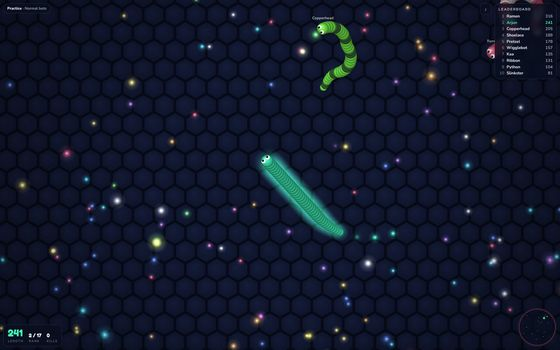
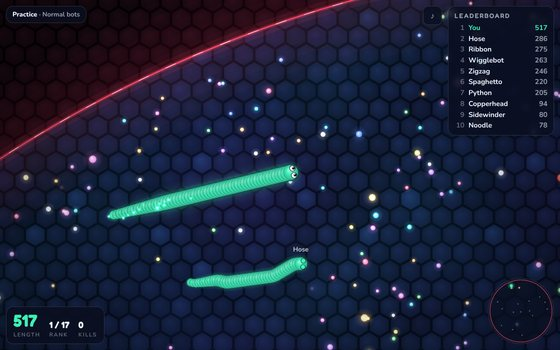
Coil: phone-sideways HUD fix, new card pictures, README
The leaderboard no longer runs into the minimap and Boost button on a
phone held sideways (top five plus your row, as upright). Retaken
preview.jpg and phone thumbnail; README section describes the new drawing.

Claude-Session: https://claude.ai/code/session_01DfCR7RPoK1UNAvb7iRuPWn

diff --git a/e63334287a3deaa3/coil/index.html b/e63334287a3deaa3/coil/index.html
@@ -142,9 +142,14 @@ details.how[open] summary::before{content:'– '}
   #mute{right:182px}
   #mini{width:96px;height:96px}
   #boostBtn{right:118px;width:76px;height:76px}
-  #stats{padding:8px 11px;gap:12px}
+  #stats{padding:8px 10px;gap:10px}
   #stats .big{font-size:26px}
   #tag{max-width:calc(100% - 240px)}
+  #hint{display:none}
+}
+/* a phone held sideways: the full leaderboard ran down into the minimap and Boost button, and the hint lay over the stats */
+@media (max-height:480px){
+  #lb li:nth-child(n+6):not(.me):not(.gap){display:none}
   #hint{display:none}
 }
 

diff --git a/README.md b/README.md
@@ -16,7 +16,7 @@ Personal site hosted with GitHub Pages at **https://ascoding11.github.io**, the 
 - `e63334287a3deaa3/index.html` and `e63334287a3deaa3/games.css`: the Back Room page. Under the header, the What's new strip, the Party and Online panels, the games come in one `<section aria-label="Games">` (leaderboard.js puts the Leaderboards right after it, and the home page's `reveal()` copies this first `<section>` into the home page, so everything the games need is inside it). The page reads, top to bottom: What's new, Playing now, Party, Online, then the games (playingnow.js puts its panel right above the Party panel). At the top of the games is **the row of game types** (`<nav class="gs-nav">`): six equal buttons in one row, one per section, each in its section's colour; a click scrolls to that section (layout.js does the scrolling from the button's `data-go`, so the address never gets a `#`, which the home page would read as a room code on reload). Then six sections, **most played type first, and inside each the most played game first** (hours across all players from the Leaderboards data, counted on 13 Nov 2026: Cars 294 h, Shooters 159 h, Parkour 68 h, Party games 66 h, Puzzles 61 h, Arcade 15 h; re-count now and then from the admin page's play-time list and move sections, buttons and cards to match): **Cars** (Slipstream, Boostball, Rampline, Rumble Karts), **Shooters** (Shell Crackers, Backrooms 1v1–4v4, Driftfall), **Parkour** (Updraft, Tumble Trials, Turbo Trail, Spire, Asteroid Run, Escapade), **Party games** (Chromaflage, Odd One Out, Showdown, Puffer Party), **Puzzles** (24 small tiles: Deepword, Trivium, the 21 daily puzzles and Boxed; then Stackfall, Melon Merge, 2048, Gridpop) and **Arcade** (Coil, Lokop, Tidewick, Patchwork Tower). Each game is in exactly one section. **Puzzle tiles** (`.pz-wrap` > `.pz-grid` > `<article class="pz">`, one full-width item at the top of Puzzles' `.gc-grid`): each links straight to the puzzle and says what it is in plain words first ("Guess the 5-letter word") with its name under that ("Hunch"), because the names alone don't tell new players what the games are; the picture is the puzzle's phone thumbnail (`m/thumbs/<folder>.jpg`). A new daily puzzle gets a tile here (and one on the phone page) as well as its `DAILY_GAMES` entry. Deepword and Trivium are tiles too, not cards (their links carry the `data-invite` their Play buttons had, so invite links still open them), and so is Boxed, the one tile that leaves the Back Room (`/boxed/`, a public game). There is no big Daily Puzzles card any more: the line above the tiles (`.pz-h`) has today's progress (`#dailyToday`) and a link to the Daily Puzzles page (`daily/`), which still has every puzzle and the streak. Tiles aren't game cards, so Edit layout's sizes leave them alone. Each section is a `<section class="gs gs-<name>">` (`gs-cars`, `gs-shooters`, `gs-parkour`, `gs-partygames`, `gs-puzzles`, `gs-arcade`; not `gs-party`, because layout.js names a section's block after its class and `party` is the Party panel) whose heading has an icon, a one-line subtitle and a count (`.gs-n`), and its own colour (`--gs-c`, set per section in `games.css`). Each game is a launcher card, `<article class="project gc">`: the screenshot (`<a class="shot">` with `preview.jpg` and a genre badge, `.gc-genre`), the name in an `<h3>`, one short line (`.gc-blurb`, about 55 characters so it fits two lines), two or three chips (`.gc-chips`: the first, `class="on"`, says how it's played online, such as "Online · up to 12"; only true things, such as Bots or Solo too), a `<details class="gc-more">` whose "i" button shows the longer description and feature list over the card, and the Play button (`.actions .btn.primary`, with `data-invite="<prefix>"` for online games, which the home page's invite links look for). Some cards have `class="project gc wide"` (two columns wide, picture on the left) so every section's rows come out even with four across, and the wide ones are each section's most played: Shooters has one wide (Shell Crackers) and two regular, Parkour two wide (Updraft, Tumble Trials) and four regular (two rows), and Cars, Party games, Puzzles (under its tiles) and Arcade four regular each; if a section's count changes, add or remove `wide` so its rows still come out even. On phones (560 px and narrower) only cards that also have `pw` (Shell Crackers) take a whole row; the others pair up two by two. A small script at the end of the Back Room page fills the `#dailyToday` span above the puzzle tiles with today's progress (how many daily puzzles are done and the streak, read from the `daily:<slug>` records, `daily-hub:days` and `deepword:days`), and it stays hidden in the home page's copy, which doesn't run that script. The styles are in `games.css`, linked from inside the Games section rather than the `<head>`, so the home page's `reveal()` brings them along; they only build on `site.css`'s colours and fonts and are scoped to `.br-games`, so the other pages that use `site.css` don't change. Four cards across on computers, three on small laptops, two on tablets and phones. To add a game, copy a card into the right section, update the section's game count (`.gs-n`) and the intro's game count, and give it its chips. A brand-new game can wear a small orange "New" pill inside its genre badge and a "New · …" chip (inline styles on Driftfall's card); take them off once it's no longer new. A new daily puzzle doesn't get a card: it goes in `DAILY_GAMES` on the Daily Puzzles page and gets a small tile (above). The home page's game layer (and the phone page's frame) let the Daily Puzzles page open its games inside the same layer, and close it when a page links back to the Back Room itself. Under the games, a "Want more games, or have an idea?" note has a Tell Arjun button (`data-feedback-open`, which feedback.js handles).
 - `e63334287a3deaa3/trivium/`: Trivium (Back Room), a trivia game: a Daily ten, Quick play by category, Survival, a 60-second Blitz, and live contests (Firebase, same project and Firestore rules as Hype Cycle Exchange and Boxed; contests are stored in `games` with `kind: "trivia"`; the host's screen grades answers and writes scores, players only write their own answers; invite links go through the home page as `#tv-<code>`). The question bank is in `e63334287a3deaa3/trivium/bank/`, one file per category; each row is `[difficulty 1–3, question, right answer, three wrong answers, fact]`. Questions get a stable ID from a hash of their text, so editing a question's wording makes it a new question. To add a category, add a file and a `<script>` tag for it in its `index.html` (and a color in `CAT_COLOR`). Keep every question and fact in your own words, and avoid facts that go out of date (current office-holders, records likely to be broken). **Turkey Week** (`../events.js`, November 15 to 26, 2026): `bank/thanksgiving.js` adds a seasonal Thanksgiving category (33 questions, id `tgv`) only while the event is running. It is kept out of the usual daily draw (`DAILY_IDS`), so no other day's Daily ten changes; on Thanksgiving Day (`TG_DAY`, 2026-11-26) all ten daily questions come from it. There is no off switch here, since it is a category you choose, not a look.
 - `e63334287a3deaa3/boostball/`: Boostball (Back Room), rocket-car soccer like Rocket League, 1v1 to 3v3 with bots (Three.js, Firebase Realtime Database rooms under `rooms/bb-…`, public lobbies `bb-pub-1…6`, same project and rules as Rumble Karts; invite links `#bb-<code>`). Car and ball physics follow Rocket League's numbers (from RocketSim) scaled by `UU`; braking and coasting are `BRAKE_ACC` / `COAST_ACC`. Cars have their own, heavier gravity, `CAR_GRAV` (1.25 × the ball's `GRAV`, which the ball keeps, so ball flight and bounces are unchanged), so they hang in the air less and come down with some weight; the jump's kick and hold are raised by `JUMP_K` (1.1), so a full jump still reaches about 95% of its old height but lands about 13% sooner, and boosting straight up still out-pulls car gravity (net 6.25 against 9.5 u/s² before; jump plus boost reaches crossbar height in 1.21 s instead of 1.14 s). Every car use of gravity goes through `CAR_GRAV`: the air, the pull along walls and ramps, the sticky-force test, and the guess at other players' cars between updates (`updateRemotes`). A car's own recoil from the ball is worked out as if it were a quarter heavier (`CAR_HEFT`; what the ball gets, so every shot, is unchanged), soft car bumps push a little less (`BUMP_SOFT`), the car that was hit is pushed harder than the one that did the hitting (`BUMP_HIT` 1.2 and `BUMP_RAM` 0.8 times the usual push, by how much of the closing speed was the other car's; a head-on bump is the plain push for both), every bump is worked out from the speeds the cars had before any bump that step (`c.bv`, set in `physStep`), so you and a bot on the same computer each get your share whichever is handled first, and a car landing on its body on the floor bounces off at `BODY_BOUNCE.floor` (.08, was .25) so it no longer skips. Landings show a drawn-only suspension squash (`SQ_*`, other players' cars too), a thud that grows with the landing speed, and for your own hard landings a small camera dip (scaled by Camera shake, off under reduced motion). Older cached pages still play with newer ones: each page runs its own car, and the gravity difference only changes the guess at a remote car between updates (55 ms apart), by centimetres. A ball resting on the roof can be carried (soft car–ball contacts have friction and a gentler extra push: `CB_*` and `PUSH*` constants; hard hits are unchanged). The match lives in `rooms/bb-<code>/round` (score, clock, last goal; `tc` is the team colour pair, which the host sets), players in `players/<uid>`, touches and pads in short-lived `events`. A goal plays a fireball in the scoring team's colour on every client (one Points cloud, fewer puffs on touch screens). Settings → Team colours picks blue/orange, green/purple, red/teal, yellow/violet or pink/cyan (each pair checked under simulated colour blindness); online everyone sees the host's pick. Settings and garage are saved only in the browser under `boostball-` keys (`teams`, `marker`, `gfx`, `name`, `body`, `accent`, …). **Look:** the three car bodies are sculpted from cross-sections in `BODY_SHAPES` (rows of `[z, half width, bottom y, top y]` for the lower body, the glass cabin and the roof), which `loft()` eases into smooth solids, with a wing, lights, grille and lathe-turned tyres added; all three still fill the one hitbox, so a new body is only a new row there (shared wheel geometry is in `SHARED_G`, which the dispose code skips). The stadium is swept around a rounded rectangle outside the arena by `ring()` in `buildArena`: two tiers of drawn crowd, LED boards with made-up sponsor names, and a roof with a strip of lights under its edge. On Pretty graphics (`glossOn()`: not on Fast, and not on touch screens) the paint is a clear-coated `MeshPhysicalMaterial`, trim, glass and the ball are `MeshStandardMaterial`s, and all reflect `stadiumEnv()`, a 128 px cube map drawn in code; the sun moves nearly overhead and casts real shadows of the cars and ball onto the pitch (one 2048 × 3072 shadow map over the whole field, only cars and the ball drawn into it; the old blob shadows fade to a faint contact shadow); and soft glows (`glowSprite`) sit on the floodlights, head and tail lights and the boost. Pretty also adds bloom and a colour grade (`bloom`, drawn by `drawScene()` after the scene): the finished frame is copied to a texture, its brightest parts are shrunk to a quarter size and blurred, and a last pass redraws the frame with that glow added, slightly more colour and contrast and darker corners, so floodlights, goal frames, boost and the goal fireball glow; the pitch switches to a per-pixel-lit material with a grass-grain normal map (`fineFloor()`), and faint beams fall from the floodlights; the scene is still drawn once straight to the screen, the HTML HUD never glows, and if the copy ever fails the bloom turns itself off for the visit. On every setting the pitch texture has mowing bands and a pool of floodlight fading to the corners, and the sky has stars (a fixed `Points` cloud). Pretty protects the frame rate by itself: `fxWatch()` (called from `drawScene()`) steps `fxTier` down when frames stay over 24 ms for 3 s after `autores.js` has already lowered the resolution to 0.7 or less, from 2 (everything) to 1 (no bloom or grade) to 0 (also no real shadows or fine grass; paint, reflections and glows stay). It never steps back up during a visit, and picking Pretty again in Settings starts from 2. `lookSync()` switches all of that when the setting changes, and `glossOn()` is part of each car's `meshKey` and the garage's key, so changing Graphics rebuilds the cars. On Fast and on phones the same bodies are drawn with the flat Lambert materials, blob shadows and no glows. Nothing about the look is sent to other players. Bots: practice offers Rookie, Pro and All-Star (`DIFF`); online, the host's browser runs Pro bots in the empty seats. Bots drive with the same controls and car as players (`botThink` only sets the car's inputs) and see the ball a reaction time late (`react`); the levels differ only in the numbers in `DIFF` (reaction, aim, steering, boost and pad use, flips, aerials, keeping). They line up behind the ball, shoot toward the post away from a defender, pick up boost pads on the way back when short, go round a ball rather than through it when on the wrong side, clear straight up the field from in front of their own net, and get themselves unstuck from corners and the back of a goal. Before a change to the bots, play old against new headlessly through `window.__bb` over a couple of hundred matches per level: single results swing a lot. Each match the bots get random names from `BOT_NAMES` (no two alike, never a human player's name in the room; the host gives a bot a new name if someone joins with its name). Online the host sends each bot's name as its position in `BOT_NAMES` (in its `bh` row), so add new names at the end and don't reorder or remove any. The game loop runs from animation frames; when they stall (the tab is hidden) a 250 ms timer keeps `step` ticking in 100 ms slices without drawing, so a hidden host's bots, ball and node keep going (browsers run that timer about once a second in a hidden tab, so others then get its updates once a second) instead of freezing until the room picks a new host. In automated browsers only (`navigator.webdriver`), `window.__bb` exposes the game for tests. Other players' cars (`updateRemotes`) are carried on from their last update along the curve they were turning on (`tw`, the turn rate worked out from successive updates), for up to 0.4 s when an update is late; the drawn car moves at its own speed and closes the gap to that estimate no faster than `CORR_V`, so a late update makes it glide rather than jump. A host running no bots sends no `bh`, and everyone then drops the bots it ran before. **Turkey Week** (`../events.js`, November 15 to 26, 2026): the ball is drawn as a pumpkin (`drawPumpkin` paints the ball texture, plus a stem on the ball mesh) and the pitch in autumn grass colours (`drawField`). `applyTurkey` redraws both textures when the menu's Turkey Week button is pressed. The ball's physics and the room data are unchanged.
-- `e63334287a3deaa3/coil/`: Coil (Back Room), a snake arena (one canvas, Firebase Realtime Database rooms under `rooms/cl-…`, public arenas `cl-pub-1…6`, same project and rules as Rumble Karts; invite links `#cl-<code>`). Rooms hold 10 people and the host (whoever has been in the room longest) runs bots to fill the arena to 12, sending them in its own node (`bh` positions, `bs` skins, names and bodies). Each browser judges only its own snakes' deaths. The game loop runs from animation frames; when they stall (the tab is hidden) a 250 ms timer steps the world in 50 ms slices so a hidden host's bots keep moving for everyone (its own snake stays put, as before; browsers run the timer about once a second in a hidden tab, so the bots then reach others once a second, smoothed by netsmooth.js). **Turkey Week** (`../events.js`, November 15 to 26, 2026): food is drawn as corn kernels and cranberries (`tkFood`, two small sprites) and every snake wears a pilgrim hat seen from above (`tkHat`). Where the food is, its value and everything sent to the room are unchanged; the Turkey Week button on the menu switches it off.
+- `e63334287a3deaa3/coil/`: Coil (Back Room), a snake arena (one canvas, Firebase Realtime Database rooms under `rooms/cl-…`, public arenas `cl-pub-1…6`, same project and rules as Rumble Karts; invite links `#cl-<code>`). Rooms hold 10 people and the host (whoever has been in the room longest) runs bots to fill the arena to 12, sending them in its own node (`bh` positions, `bs` skins, names and bodies). Each browser judges only its own snakes' deaths. The game loop runs from animation frames; when they stall (the tab is hidden) a 250 ms timer steps the world in 50 ms slices so a hidden host's bots keep moving for everyone (its own snake stays put, as before; browsers run the timer about once a second in a hidden tab, so the bots then reach others once a second, smoothed by netsmooth.js). **Look** (drawing only; nothing here changes play or what is sent to the room): everything is drawn from small sprites made once per colour, with no `shadowBlur` in the frame. A snake (`paintBody`, also used by the menu's skin preview) is `under()` beneath every other segment (a soft shadow, a faint halo in the snake's colour and a dark outline disc), one `ball()` per segment (flat colour with a thin shaded rim: only the tail-side sliver of each one shows, so the rims read as scales), a line of `sheen` dots up and to the left of the spine, then `head()`; `paintFace` draws the eyes with a dark rim, and they blink; the tongue flicks out now and then. The head and body are still exactly the snake's radius, so what you see is what can be hit. Food is `dot()`, a small orb about the pellet's real size inside a halo. The floor is one repeating 944 × 612 tile (`hexTile(false)`: each hexagon has its own slight brightness, a few are faintly lit, and pools of teal and violet light lie over them; it wraps at its edges); while the whole view is inside the arena it is a single fill with nothing clipped. Near the edge (`EDGE_GLOW`) the outside is filled with a dim crimson tile (`hexTile(true)`), the arena is clipped over it, and the edge gets a red glow reaching into the floor and dashes of light running along it. A snake that breaks up throws sparks and a ring (`burst`, on the first frame its entry in `dying` is drawn), and boosting sheds small sparks off the rear half; both use one fixed pool of 360 (`spark`, `drawSparks`), with fewer on touch screens, and freeze while practice is paused. The dark corners are drawn once per resize (`vig`) and stretched over the frame, and the canvas is opaque (`alpha:false`). On a phone held sideways (`max-height:480px`) the leaderboard shows the top five and your row, as it does upright, so it clears the minimap and Boost button. In automated browsers only (`navigator.webdriver`), `window.__coil` exposes the snakes, bots, camera and a `kill()` for tests. **Turkey Week** (`../events.js`, November 15 to 26, 2026): food is drawn as corn kernels and cranberries (`tkFood`, two small sprites) and every snake wears a pilgrim hat seen from above (`tkHat`). Where the food is, its value and everything sent to the room are unchanged; the Turkey Week button on the menu switches it off.
 - `e63334287a3deaa3/showdown/`: Showdown (Back Room), no-limit Texas Hold'em for up to 8 players (Firebase Realtime Database rooms under `rooms/sd-…`, same project and rules as Rumble Karts; invite links go through the home page as `#sd-<code>`). Everything travels through each player's own node: the dealer (the player with the newest dealer number, or with none yet, whoever has been in the room longest) runs the table and publishes it as JSON in `tb`, and seals each player's hole cards to that player's key in `hc` (ECDH P-256 + AES-GCM via Web Crypto), so the database never holds readable hole cards; players write only their own action (`ac`), sit-out (`sit`), rebuy (`rb`) and chat (`ch`). The dealer's browser does see every card, so it isn't cheat-proof against a dealer with developer tools. If the dealer drops, the next player takes over from the last table it saw and refunds the hand in progress. Bots (Easy, Normal, Hard) fill empty seats and run in the dealer's browser. Play chips only; nothing is stored between sessions except practice stats in the browser.
   Other players' hole cards only ever go into `tb` (each seat's `sh`, hand name `h` and best five `c`, plus a "shows" line in the log) at the showdown: an all-in run-out deals the rest of the board with every hand still face down, and at the showdown hands are turned over in order (whoever bet or raised last on the final betting round first, else the first player after the button), and a hand that can't win or tie any pot it's in is mucked face down instead (its action `l` becomes `Muck`, the log says it mucks, and its cards are never published). Hands that end with everyone else folding are never shown.
 - `e63334287a3deaa3/chromaflage/`: Chromaflage (Back Room), paint-yourself hide and seek for up to 8 players (Three.js, Firebase Realtime Database rooms under `rooms/cf-…`, same project and rules as Rumble Karts; Quick match uses `rooms/cf-pub-1` to `cf-pub-4`; invite links go through the home page as `#cf-<code>`). Hiders paint their own bodies in a paint studio (brush, an eyedropper that reads the true colour of whatever surface you click, fill, undo, glossiness) and pose to hide (crouch under tables, lie under beds, flatten, or stick to a wall with G or the Stick button and slide up, down and along it at any height, upright or sideways, until they jump to let go); seekers tag them with a blaster that fires a shot every 0.18 s (`FIRE_GAP`) for as long as the mouse button or the touch Tag button is held, with no reload pause: a miss costs one of 10 ink (`INK_MAX`), a hit costs nothing, and ink trickles back all the time at one shot every 2.5 s (`INK_REGEN`), so a seeker can keep firing at a hider who jumps about but blind spraying soon runs the tank dry and then gets a shot every 2.5 s. Fire rate and ink live only on the seeker's computer, which also decides hits (a ray against the hiders as it draws them) and sends a tag claim (`tg`) for the host to check, so changing them needs no change to the room data. Modes: Classic and Infection. Like Showdown, everything travels through each player's own node at `rooms/cf-<code>/players/<uid>`, because the shared rules expect `n, c, x, z, h, ts` there and refuse other paths (such as `events`) for new prefixes: position and pose (`y, po, fl, p`, and `wl`: 0, or 1 to 4 for the way the wall a hider is stuck to faces, with `y` its height), body (`s` shape, `sz` size, `rf` glossiness), paint (`pv` version and `pd`, the 256 × 256 body texture as a WebP data URL, or JPEG where the browser can't make WebP; about 1 KB for a plain colour and 10–20 KB for a detailed pattern, re-sent at most every 1.2 s and only when it changed, so late joiners read it straight from the node), the last shot (`sh`), squeak (`ta`) and tag claim (`tg`). The host (newest host number `he`, else whoever has been in the room longest) publishes the round as JSON in its own `rs` and checks tag claims loosely; if it leaves, the next player carries on from the last round it saw. Anything read from another player's node is untrusted (any player can make itself host with a high `he`): `sanitizeRS` rebuilds a received round state field by field (known phases, numbers clamped, player ids checked and lists capped, settings through `cleanSet`), `remoteTarget` keeps positions inside the map and angles finite, and scores are shown as numbers, so keep new round-state fields going through `sanitizeRS` and escape anything put in `innerHTML`. A tab in the background gets no animation frames, so a 1 s timer keeps its node's `ts` fresh and, for the host, keeps the round ticking. Bodies are modelled about 1.7 units tall and drawn at `BODY` (0.64) times their size setting, so Normal is about 1.08 m. The Doll is a soft, rounded figure (a big round head on a short neck, a plump body, thick arms and legs with rounded ends, two small eyes), each part turned on a lathe (`latheGeo`, `dollParts`) with the texture spread evenly up the profile and normals taken from the profile so there are no shading seams; the Block is a slim slab. Each body shape has a 256 × 256 texture atlas where every texel knows its 3D spot on the body, so brushes paint by distance in 3D (`atlasOf`, `Paint`). Keep each part's region of the atlas (the `rect` passed to `latheGeo`) when reshaping a body, or saved and synced paint jobs land on the wrong parts; the Doll was reshaped inside the same regions, so paint saved before that lands on roughly the same places. Maps are axis-aligned boxes plus round props, built by `buildManor` (Hollyhock Manor: 48 × 38 m, a party night in a country house, with an 8 m grand hall whose staircase climbs to a gallery, ten rooms under 4.2 m ceilings), `buildMuseum` (Marlowe Museum: 58 × 50 m, a 7 m lobby, a top-lit grand gallery with free-standing walls, six galleries, a gift shop, a café and the storeroom) `buildRyokan` (Kirinoya Inn: 50 × 40 m, a Japanese inn round a glass-roofed garden courtyard, with four tatami guest rooms, a banquet hall, a tea room, a futon store, the hot-spring bath, the kitchen and a games lounge), and six everyday places: `buildSchool` (Birchwood High: 44 × 32 m, a locker-lined corridor, two classrooms, a science lab, a library, an art room, the staff room, toilets and the PE store), `buildOffice` (Larkspur & Co: 48 × 34 m, a reception, an open-plan floor of desk pods, a meeting room, the manager's office, a kitchenette, a server room, a store, a lounge and toilets), `buildMarket` (Greenleaf Market: 50 × 36 m, a 4.2 m supermarket floor of aisles, produce tables, chillers, freezer islands, a bakery, a deli and six checkouts, a café, the bakery kitchen, a stockroom with pallet racking and a forklift, the staff room, an office, toilets and a cold room), `buildHotel` (Hotel Bellamy: 48 × 36 m, a marble lobby with columns, a piano and a reception desk, a bar with a pool table, a restaurant, and off a carpeted corridor five guest rooms, each with a bathroom whose bath you can climb into, plus housekeeping and the laundry), `buildLeisure` (Riverside Leisure Centre: 50 × 38 m, a 7 m sports hall with bleachers, hoops and a climbing wall, a gym, a dance studio, the reception and café, two changing rooms with lockers and showers, first aid, the equipment store, an office and the plant room) and `buildFlats` (Maple Court: 46 × 31 m, four flats off a landing, each with a living room and kitchen, a bedroom, a children's room with bunk beds, a study, a hall and a bathroom, plus the residents' laundry and the bike and bin store; the north flats are the south ones mirrored by `flat()`). The everyday maps share painters, `everydayMats` and the `everyday` furniture (desks, office and school chairs, lockers, gondola shelving, counters, divans and bunk beds, bathroom pieces, gym kit, bleachers, trolleys, pallets). Walls, floors and ceilings come from `kit`: `wallX`/`wallZ` build a wall as two half-thick slabs, one per room, each reaching 1 cm past the centre line so the two overlap and leave no seam to slip into, each from a side spec (`w` wallpaper, `lo` and `lh` lower panelling, `h` height, `base`, `rail`, `crown`, `casing`), with door openings and their casings; `win`, `pic`, `flat` and `sconce` hang windows (an evening view), framed pictures, signs and wall lights, and `ag` places furniture with its back to a wall. Wall slabs are marked `wall`, and trims, pictures and curtains are not solid, so a hider can still stick to the wall behind them. The `Builder` helpers are `box`, `at` for turned furniture, `prop` for round things from the shared `geo()` cache (baked with the boxes into one mesh per material, so a map is about one draw call per material), `ceil` for ceilings drawn from below only so the menu's view from above looks into the rooms, `spot` for places bots hide under tables, beds and the inn's futon cupboard, and `lamp` for point lights, of which only six spread-out ones are used, three on the Fast setting; the furniture helpers are in `furn` (tables, round tables with cloths, chairs, benches, sofas, beds, a grand piano, a fireplace, plants and palms, lamps and chandeliers, washing lines, curtains you can walk into, vending machines, plinths and mannequins, which make good decoys). The bots only walk the floor: the manor's gallery and the inn's raised entrance step are for players. Each map gives `spawns`, a `seek` start and an `attract` spot for the menu's doll. Boxes marked `soft` (cloth and leaves) block the view and the seeker bot's line of sight but not the blaster's pellets. The boxes are also the colliders, the bots' navigation grid, line of sight and the surfaces the eyedropper and bots sample; they are filed in a 2 m grid (`buildGrid`, `solidsIn`, `rayMap`) so rays and collisions stay quick. Every pattern is drawn on a canvas by the `P` painters (damask and striped wallpapers, wood panelling, marble, tatami, shoji and fusuma, rugs, portraits, landscapes and modern paintings, and so on), from a fixed seed so all players get the same map. Every room must keep a ceiling. To add a map, write a `build…` function and add it to `MAPS`, then check it the way the existing ones were checked: every spawn, the seeker start and every bot `spot` free and reachable from the seeker start, a ceiling and a floor everywhere, no ray escaping the shell, and no solid furniture cut into a wall. Bodies collide as their pose's footprint circles against the boxes (`moveEnt`): each move is cut into steps shorter than the body's radius and anything it runs into pushes it back out the face it came in through (`pushOut`), so nothing can be crossed in one frame; a box whose top is within a step of the feet (`stepOf`: 0.45 m standing, half the body's height crouching or lying) is climbed only when there is room to stand on it, otherwise it is solid (a chair seat over its legs, a bed frame under its quilt); a box whose bottom is within 1 cm of the top of the head doesn't block, so a body that just fits under a table fits; low furniture is solid down to the floor unless the gap under it is at least as tall as the smallest lying body (`minGap`, the Petite Block, about 0.15 m: `Builder.finish` adds an invisible collider under anything lower); a body that finds itself inside something (after growing, say) moves to the nearest free spot that isn't across a wall (`freeSpot`, `wallBetween`), and a move never ends on the far side of a wall. The practice seeker bot "sees" by rendering a small view of you with and without you and comparing the colours (`perceive`, delta E), so better paint really does keep you hidden; it sweeps its gaze up and down so it can spot hiders high on walls, and furniture blocks its view. Practice hider bots sometimes hang on walls or tuck under furniture. Online rooms follow a daily map rotation: `dayMaps` shuffles all the maps with the day number as the seed (days start at midnight US Eastern standard time, `DAY_SHIFT`) and keeps the first three, and the map is `dayMaps(now)[floor(now / 15 min) % 3]` (`rotMap`), worked out from the shared server clock (`Net.now`). The host publishes it as `rs.map` in the lobby and when it starts a round, so a round in progress finishes on its map and the next round or the lobby moves on; the lobby shows the map now and "Next map in m:ss" with the next map's name (`rotText`), and the menu names today's three. The host of a private room can still pick a single map instead of "Daily rotation" (the `map` round setting, -1 for the rotation); Practice has a picker of every map; Quick match and invite links are unchanged. Nothing is stored online between rounds; your name, body, last paint job and settings are saved in the browser under `chroma-…`. Parties can launch it (its row in `GAMES` in `party.js`). On touch screens the page adds `touch` to `body`, and the `body.touch` rules at the end of the stylesheet place the HUD, the lobby card and the paint studio for phones held upright or sideways (keep them clear of the stick and buttons when adding HUD pieces). The lobby card and the paint studio scroll an inner box (`.lb-body`, `.st-body`) instead of the card itself, because Chrome can leave a blank patch in the 3D view under a scrolling box with a solid background. **Turkey Week** (`../events.js`, November 15 to 26, 2026): seekers wear a pilgrim hat as part of their gear; hiders never do, because a hat would give them away: one shared hat geometry and material from `events.js` (`tkHat`), one extra draw call each; the menu's Turkey Week button shows or hides them (`tkToggle`).
